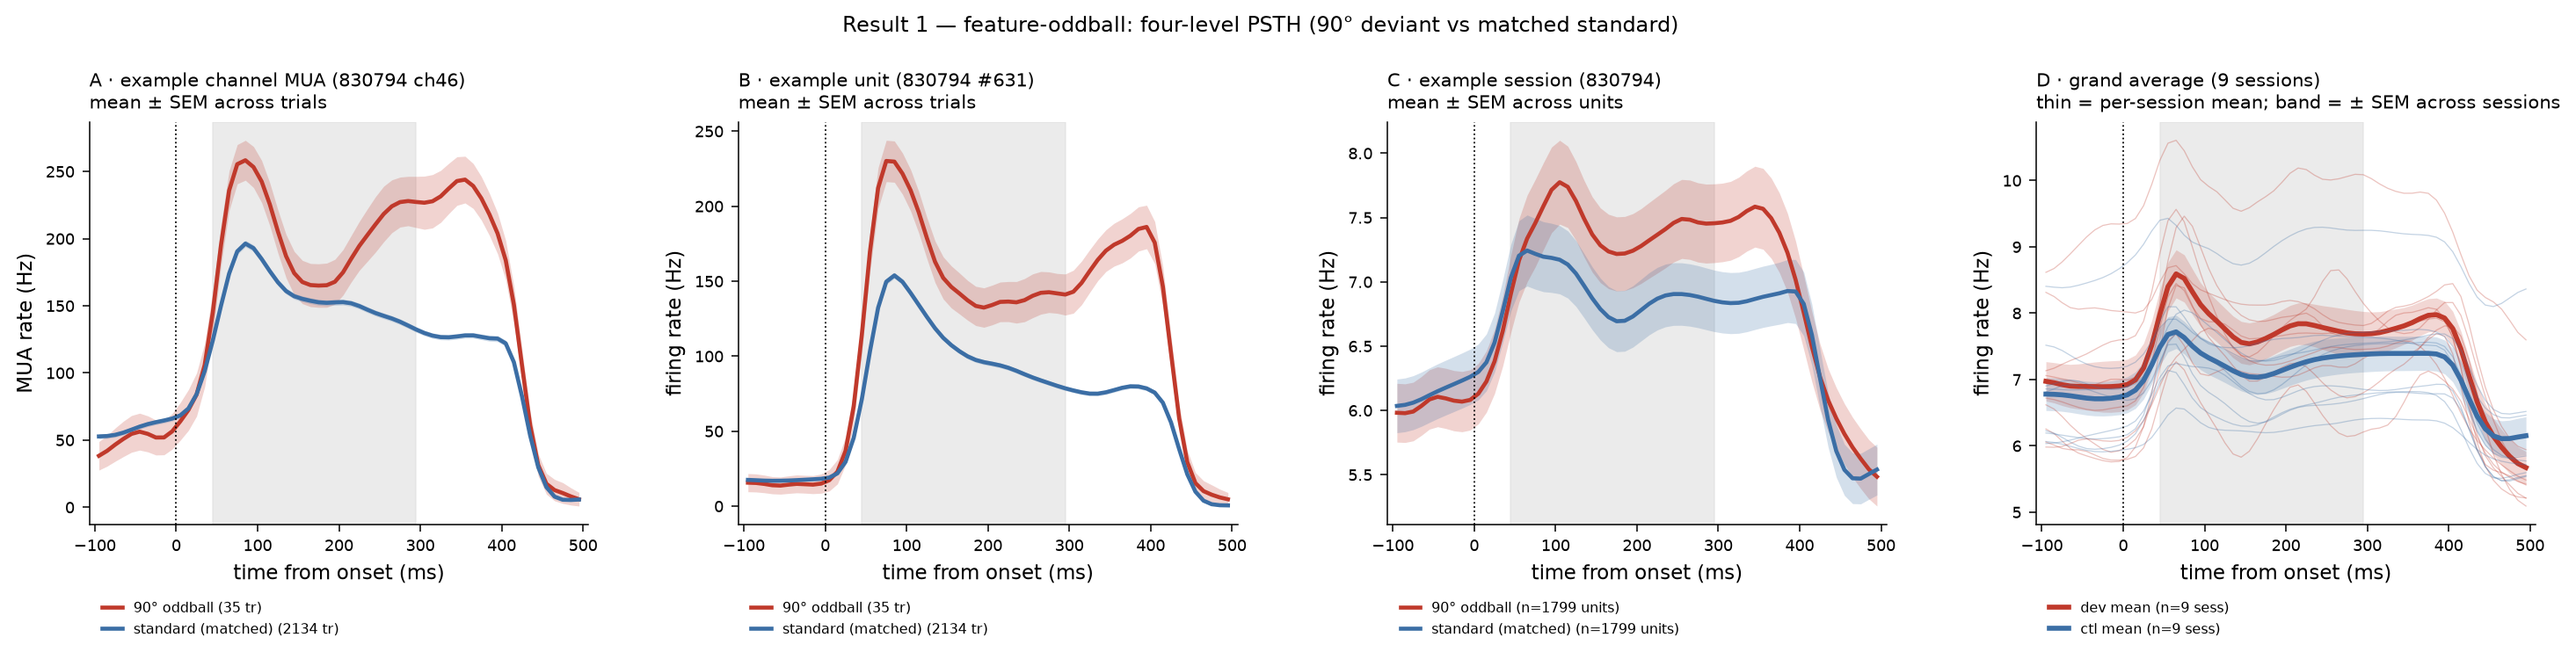
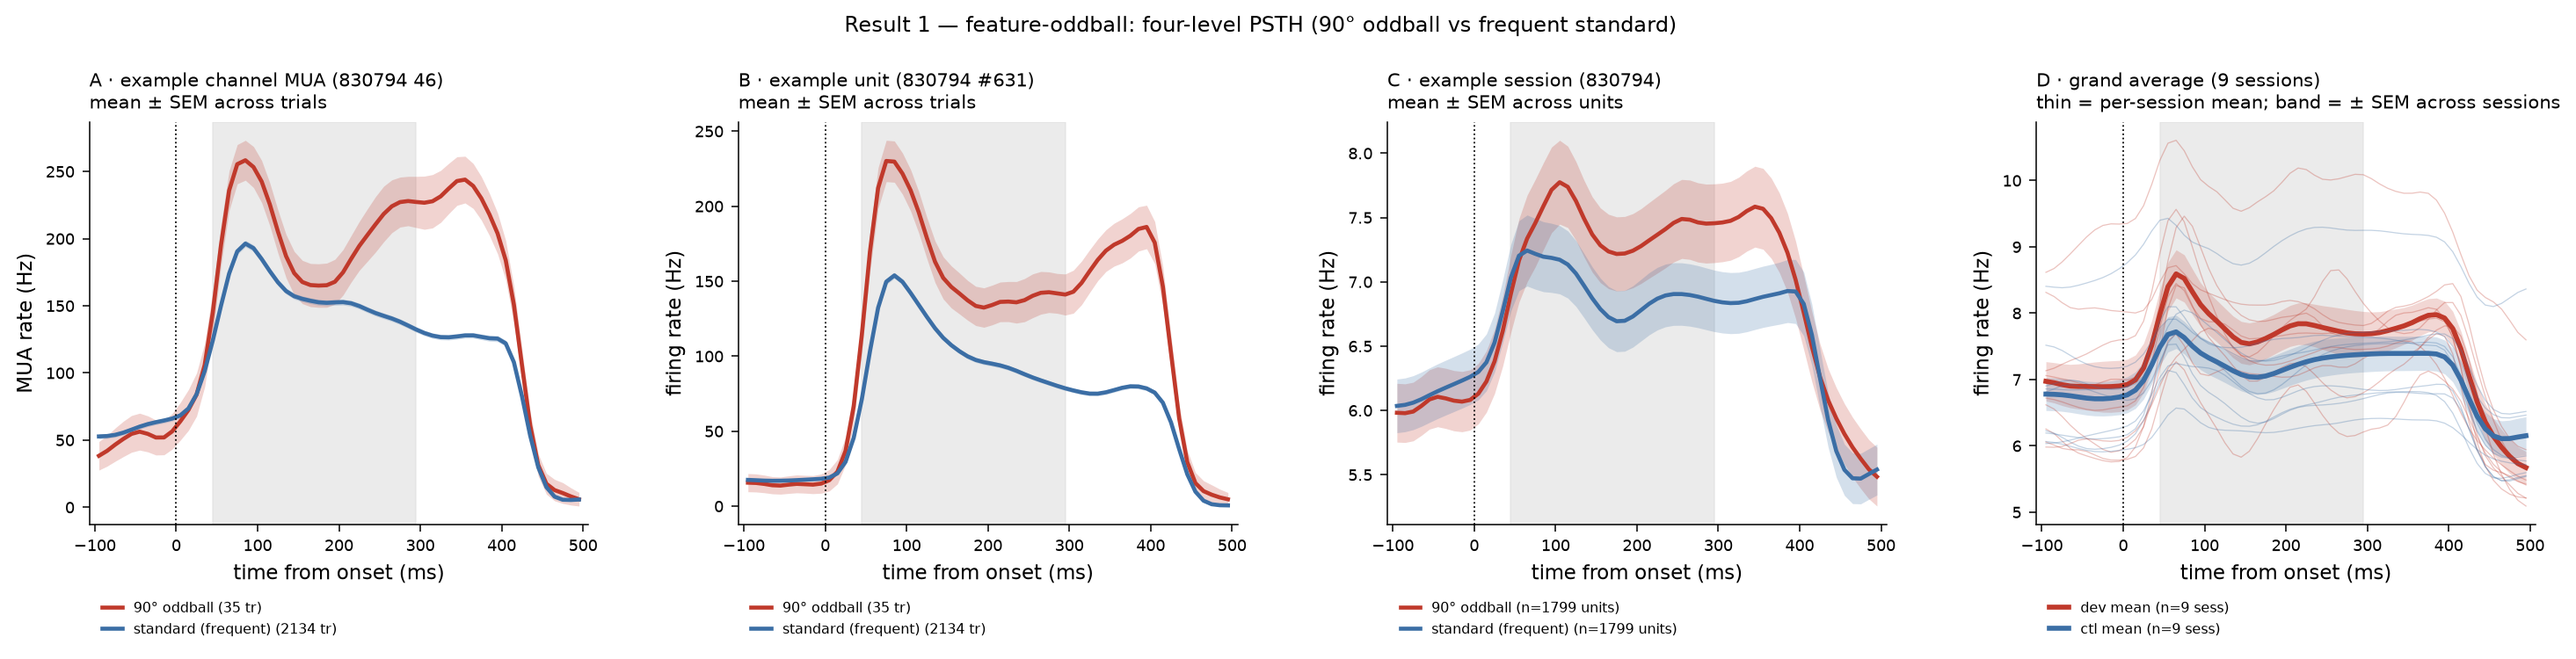
Clarify PSTH contrast labels (audit): R1 PSTH is oddball-vs-FREQUENT-standard, not the equiprobable DvI control
An auditor correctly flagged that the Result 1 four-level PSTH pairs the oddball against the frequent
'standard' (the adaptation view that makes the trigger check legible), while the DvI result uses the
equiprobable standard_control. These are different contrasts; the earlier caption/label wrongly called
the PSTH control 'physically-matched'. Fixed the label (standard (frequent)), suptitle, README caption
and notebook markdown to state plainly that the PSTH shows dynamics (a generous upper bound on the raw
difference), not the effect-size estimate. R3's caption already flags that its panel is the
deviant-vs-flow sensory response, not the closed/open contingency (PE) contrast. Regenerated r1 figure.

Compute path: the oddball and sequence notebook PSTH cells were both executed end-to-end (QUICK 2-session)
and reproduce correctly; duration/sensorimotor use the identical helper differing only in the onset
adapter, which was exercised during figure extraction.

diff --git a/README.md b/README.md
@@ -416,10 +416,15 @@ average, each level carries a variance band and the shaded response window:
 
 The example channel's multiunit (panel A) is the most direct trigger/timebase check — a
 clean onset at t = 0 and the next grating appearing at ~400 ms (the 701 ms cadence) confirm
-the alignment. The 90° oddball (red) exceeds the physically-matched standard (blue) at every
-level, and all 9 per-session means move together in the grand average (panel D) — the effect
-is not carried by one animal, and the response window sits on the peak. Computed by the
-`MAKE_PSTH_FIG` cell in the confirmatory notebook.
+the alignment. The 90° oddball (red) exceeds the frequent **standard** (blue) at every level,
+and all 9 per-session means move together in the grand average (panel D) — the effect is not
+carried by one animal, and the response window sits on the peak. **Note on the contrast shown:**
+this PSTH plots the oddball against the *frequent standard* — the adaptation view, which makes the
+onset/trigger check legible and shows the oddball riding above the fatigued standard response. It
+is **not** the equiprobable `standard_control` used for the adaptation-free deviance index (DvI)
+above; the standard is more suppressed than the equiprobable control, so this display is, if
+anything, a generous upper bound on the raw difference and is shown for its dynamics, not as the
+effect-size estimate. Computed by the `MAKE_PSTH_FIG` cell in the confirmatory notebook.
 
 ### Population dynamics and laminar timing
 
